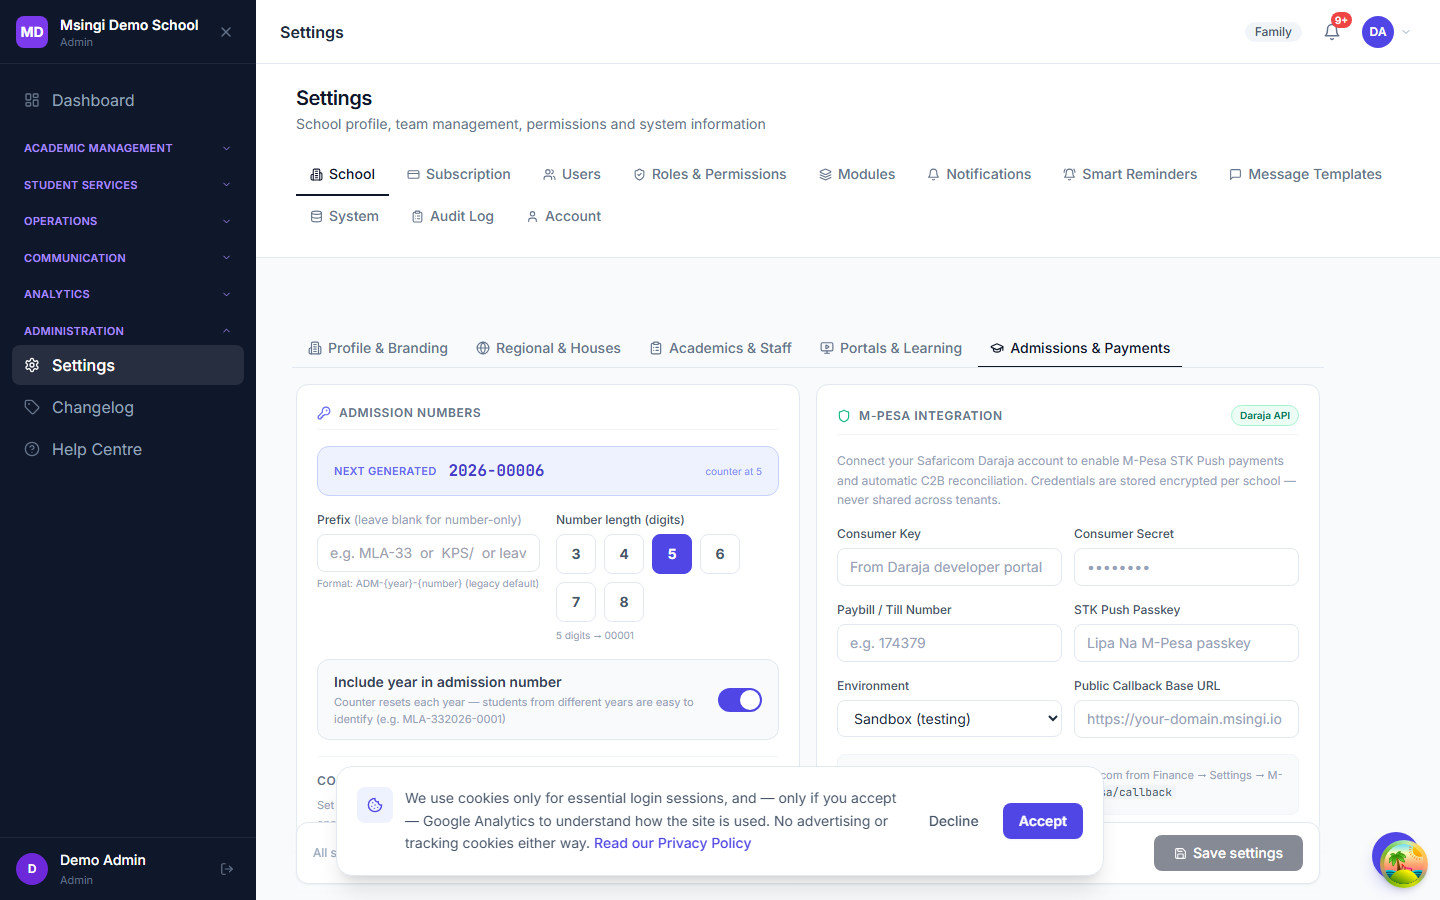
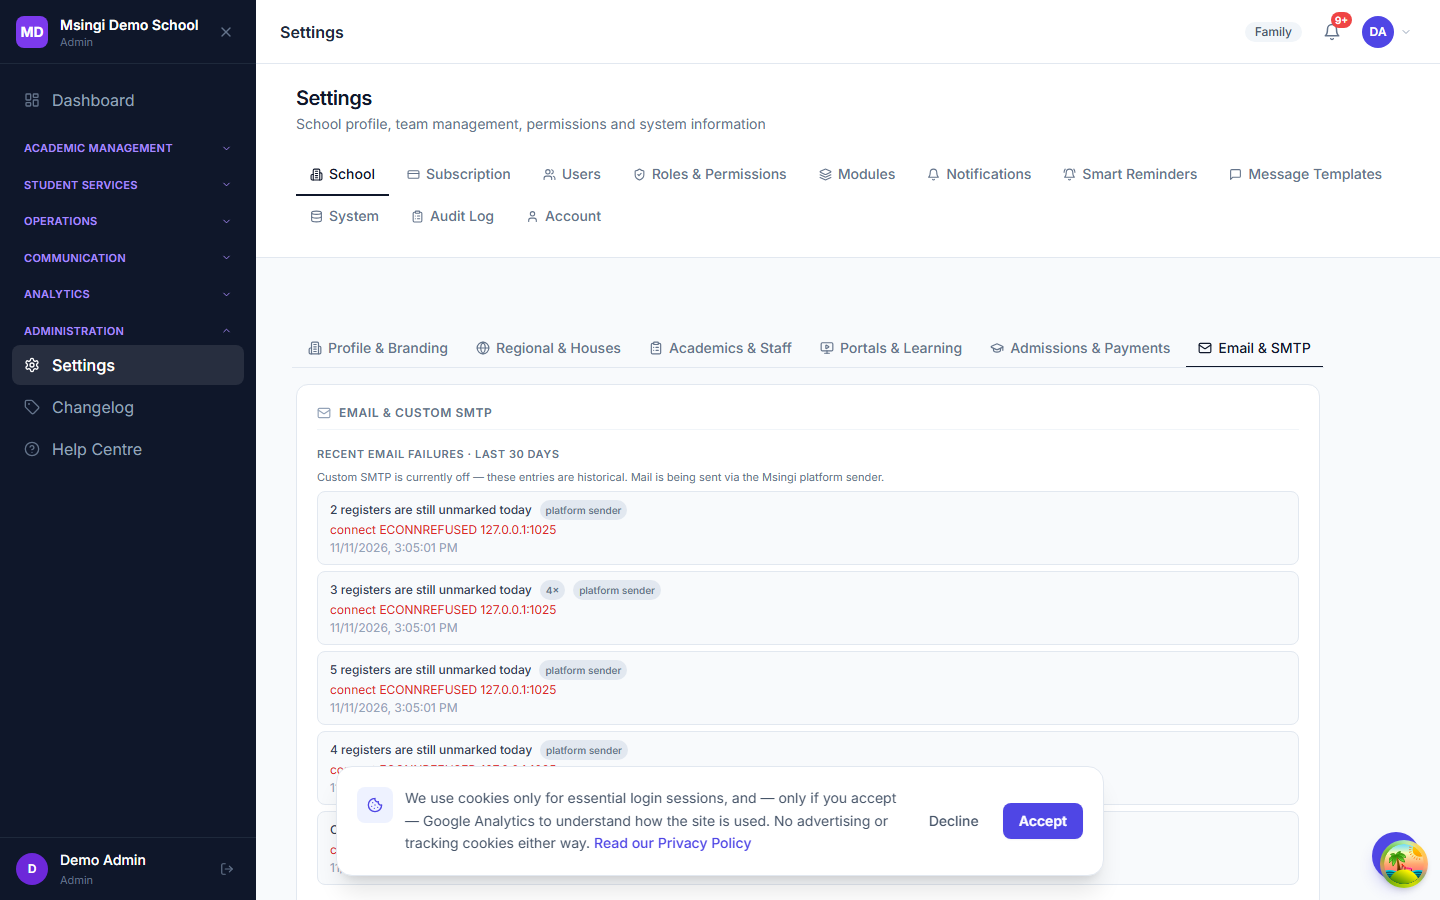
fix(settings): give email SMTP its own sub-tab
SMTP was the last card in the School form, below the Save bar, mixed in with profile/regional/admissions settings and outside the main submit. It now has an 'Email & SMTP' sub-tab with its own Save/Test/Remove actions, and the school-profile Save bar is hidden while that tab is active so the two save surfaces are never confused. Recent email failures and the platform-sender note move with it.

diff --git a/client/src/pages/settings/SettingsPage.jsx b/client/src/pages/settings/SettingsPage.jsx
@@ -1070,6 +1070,7 @@ const SCHOOL_TABS = [
   { id: 'academics',  label: 'Academics & Staff',     Icon: ClipboardList },
   { id: 'portals',    label: 'Portals & Learning',    Icon: MonitorPlay },
   { id: 'admissions', label: 'Admissions & Payments', Icon: GraduationCap },
+  { id: 'email',      label: 'Email & SMTP',          Icon: Mail },
 ];
 
 function SchoolTab() {
@@ -1695,7 +1696,14 @@ function SchoolTab() {
       </>
       )}
 
-      {/* ── Sticky Save Bar ── */}
+      {/* ── Email & SMTP — its own tab and its own save, separate from the
+             school-profile form. The card has separate Save/Test buttons. ── */}
+      {schoolTab === 'email' && (
+        <SmtpCard school={school} onSaved={() => qc.invalidateQueries({ queryKey: ['settings','school'] })} />
+      )}
+
+      {/* ── Sticky Save Bar (school profile tabs only — SMTP saves itself) ── */}
+      {schoolTab !== 'email' && (
       <div className="sticky bottom-0 z-10 -mx-1 px-1 pt-3 pb-4 bg-gradient-to-t from-slate-50 via-slate-50/90 to-transparent">
         <div className="flex items-center gap-3 bg-white border border-slate-200 rounded-xl px-4 py-3 shadow-sm">
           {form ? (
@@ -1718,9 +1726,7 @@ function SchoolTab() {
           </button>
         </div>
       </div>
-
-      {/* Custom SMTP — separate save, outside the main form submit */}
-      <SmtpCard school={school} onSaved={() => qc.invalidateQueries({ queryKey: ['settings','school'] })} />
+      )}
     </form>
   );
 }
